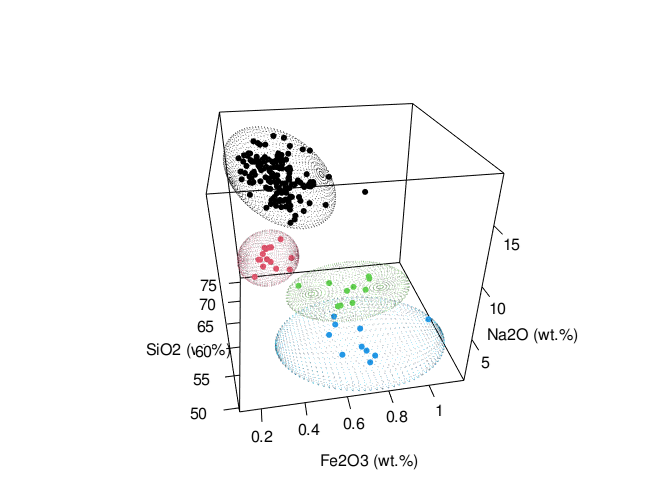
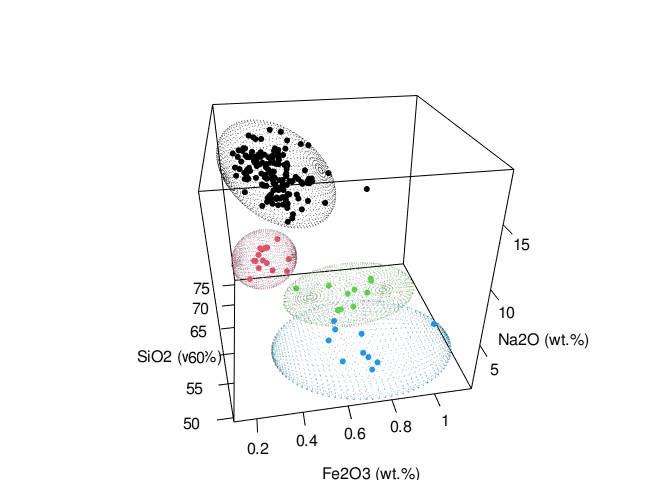
Updates

diff --git a/README.md b/README.md
@@ -235,13 +235,7 @@ rgl::points3d(
   col = as.numeric(df$glassType),
   size = 5
   )
-rgl::view3d(theta = 260, phi = 30, fov = 60, zoom = .9)
+rgl::view3d(theta = 260, phi = 30, fov = 60, zoom = .85)
 ```
 
 <img src="man/figures/README-unnamed-chunk-19-1-rgl.png" width="100%" />
-
-``` r
-rgl::rglwidget(snapshot = TRUE, webgl = FALSE)
-```
-
-<img src="../../../../../../private/var/folders/x3/yvrl30657qxdqhs1mthzh8g80000gn/T/RtmpedIVA5/file4b861f935417.png" width="100%" />
